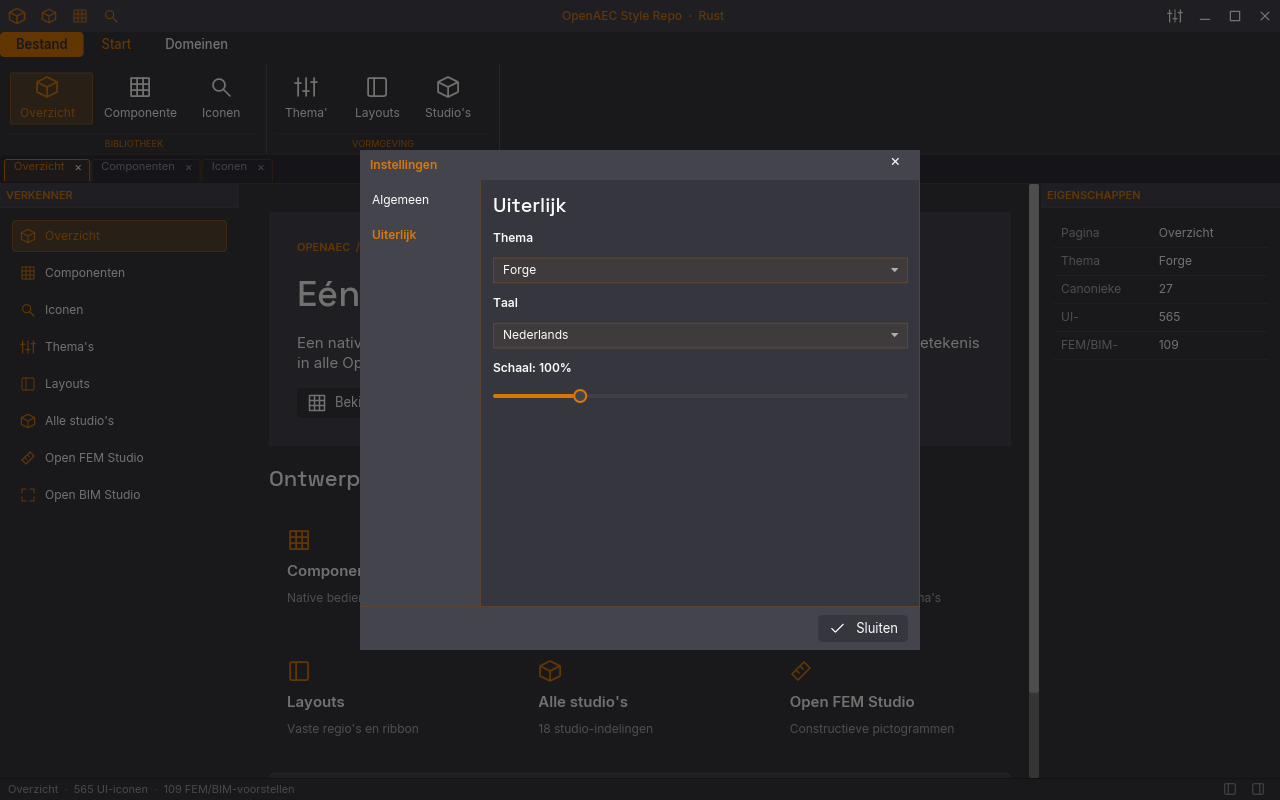
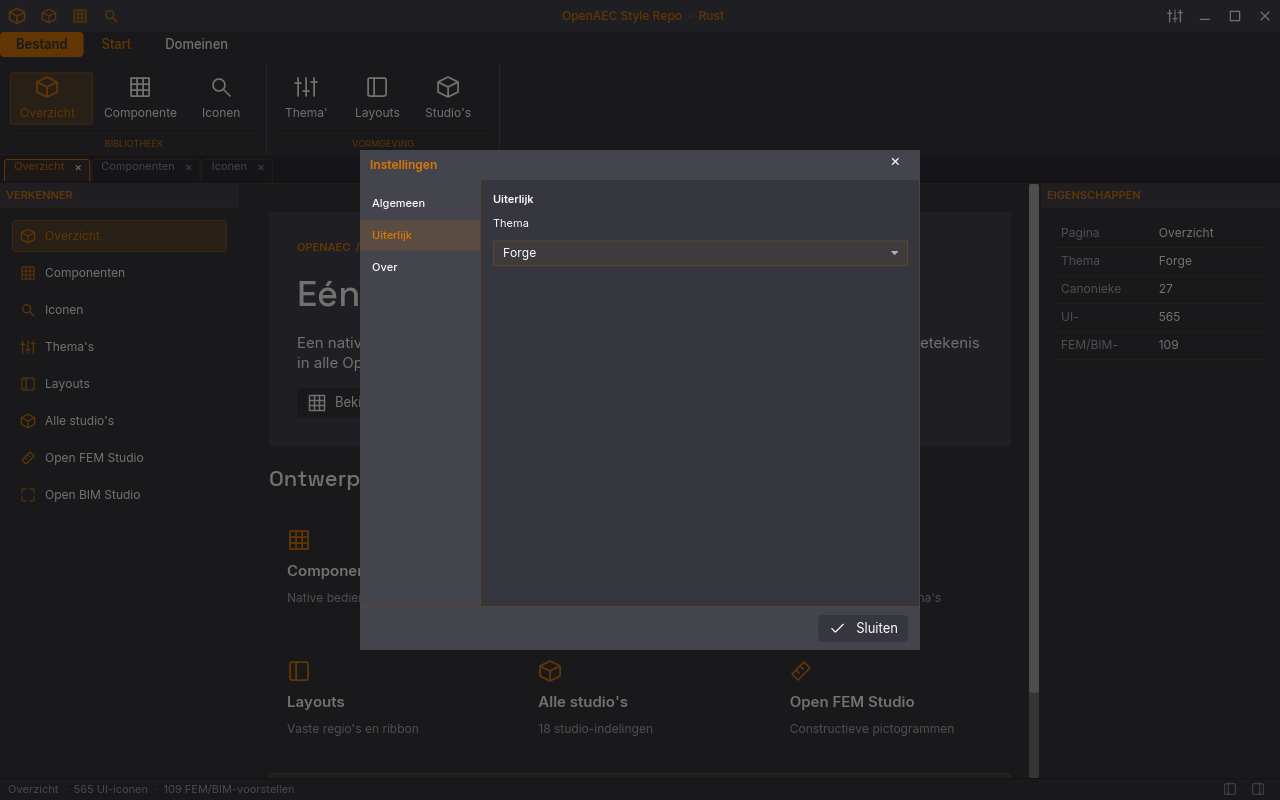
Unify selectable settings navigation in Rust shell

Changed region(s): [[0.375, 0.375, 0.4688, 0.5], [0.375, 0.25, 0.4375, 0.3438], [0.2812, 0.25, 0.3438, 0.3125]]

diff --git a/design/settings-modal-review.html b/design/settings-modal-review.html
@@ -42,7 +42,7 @@
     <figure><h2>Style Repo · Forge</h2><a href="style-repo-settings-forge.png"><img loading="lazy" src="style-repo-settings-forge.png" alt="Style Repo instellingen in Forge"></a><figcaption>Dezelfde crate-geometrie en Forge-tokens.</figcaption></figure>
     <figure><h2>Pointcloud · Forge</h2><a href="pointcloud-settings-forge.png"><img loading="lazy" src="pointcloud-settings-forge.png" alt="Pointcloud instellingen in Forge"></a><figcaption>Dezelfde crate-geometrie en Forge-tokens.</figcaption></figure>
   </div>
-  <div class="assessment"><section><h3>Nu gelijk</h3><p>Positie en buitenmaat van de modal, 120 px navigatiestrook, header, footer, grenslijnen, backdropkleur en thematokens zijn één crate-component. Beide apps houden hun werkende taal- en themagedrag.</p></section><section><h3>Nog beoordelen</h3><p>De bron heeft meer instellingscategorieën en een eigen open themadropdown. Style Repo heeft een compacte keuzelijst; Pointcloud toont vijf themarijen en CAD-viewerinstellingen. De binneninhoud is daardoor nog niet pixelidentiek en blijft deels productspecifiek.</p></section></div>
+  <div class="assessment"><section><h3>Nu gelijk</h3><p>Positie en buitenmaat van de modal, 120 px navigatiestrook, rechte 11 px-tabs, header, footer, grenslijnen, backdropkleur en thematokens komen uit de crate. Beide apps hebben selecteerbare Algemeen-, Uiterlijk- en Over-pagina’s en behouden hun eigen instellingsgedrag.</p></section><section><h3>Nog beoordelen</h3><p>De gepinde templatecode bevat drie tabbladen; zijn bewaarde screenshot toont nog zeven oudere categorieën. De bron heeft een eigen open themadropdown. Style Repo heeft een compacte keuzelijst; Pointcloud toont vijf themarijen en CAD-viewerinstellingen. De binneninhoud is daardoor nog niet pixelidentiek.</p></section></div>
   <p style="margin-top:20px;color:#62626b;font-size:12px">Bronregels: <a href="https://github.com/OpenAEC-Foundation/OpenAEC-style-book/blob/dfdcd415b26604081b1699560621d3e9ae7ea6bf/project-templates/Tauri%2BReact/src/components/settings/SettingsDialog.tsx">SettingsDialog.tsx</a>, <a href="https://github.com/OpenAEC-Foundation/OpenAEC-style-book/blob/dfdcd415b26604081b1699560621d3e9ae7ea6bf/project-templates/Tauri%2BReact/src/components/settings/SettingsDialog.css">SettingsDialog.css</a> en <a href="https://github.com/OpenAEC-Foundation/OpenAEC-style-book/blob/dfdcd415b26604081b1699560621d3e9ae7ea6bf/project-templates/Tauri%2BReact/src/components/Modal.css">Modal.css</a>.</p>
 </main>
 </html>

diff --git a/crates/openaec-ui/src/shell.rs b/crates/openaec-ui/src/shell.rs
@@ -159,26 +159,40 @@ pub fn shell<'a, M: Clone + 'a>(state: &'a ShellState, slots: Slots<'a,M>) -> El
     } else {base}
 }
 fn settings<'a,M:Clone+'a>(state:&'a ShellState) -> Element<'a,Message<M>> {
-    let p=&state.preferences; let l=p.language; let t=p.theme.tokens();
-    let form=column![
-        text(l.text("Uiterlijk","Appearance")).font(fonts::HEADING).size(20),
-        text(l.text("Thema","Theme")).font(fonts::STRONG).size(12),
-        pick_list(Theme::ALL,Some(p.theme),|theme|Message::Ui(UiEvent::Theme(theme)))
-            .style(move |_,status|widgets::pick_list_style(p.theme,status))
-            .menu_style(move |_|widgets::pick_list_menu_style(p.theme)).width(Fill),
-        text(l.text("Taal","Language")).font(fonts::STRONG).size(12),
-        pick_list(Language::ALL,Some(p.language),|language|Message::Ui(UiEvent::Language(language)))
-            .style(move |_,status|widgets::pick_list_style(p.theme,status))
-            .menu_style(move |_|widgets::pick_list_menu_style(p.theme)).width(Fill),
-        text(format!("{}: {:.0}%",l.text("Schaal","Scale"),p.scale*100.0)).font(fonts::STRONG).size(12),
-        slider(0.75..=2.0,p.scale,|scale|Message::Ui(UiEvent::Scale(scale)))
-            .step(0.05).style(move |_,status|widgets::slider_style(p.theme,status)),
-    ].spacing(12);
-    let sidebar=container(column![text(l.text("Algemeen","General")).size(12),text(l.text("Uiterlijk","Appearance")).font(fonts::STRONG).size(12).color(t.accent)].spacing(20))
-        .padding([4,12]);
+    let p=&state.preferences; let l=p.language;
+    let heading = |label| text(label).font(fonts::STRONG).size(11);
+    let form: Element<'a, Message<M>> = match state.settings_page {
+        SettingsPage::General => column![
+            heading(l.text("Algemeen","General")),
+            text(l.text("Taal","Language")).size(11),
+            pick_list(Language::ALL,Some(p.language),|language|Message::Ui(UiEvent::Language(language)))
+                .style(move |_,status|widgets::pick_list_style(p.theme,status))
+                .menu_style(move |_|widgets::pick_list_menu_style(p.theme)).width(Fill),
+            text(format!("{}: {:.0}%",l.text("Schaal","Scale"),p.scale*100.0)).size(11),
+            slider(0.75..=2.0,p.scale,|scale|Message::Ui(UiEvent::Scale(scale)))
+                .step(0.05).style(move |_,status|widgets::slider_style(p.theme,status)),
+        ].spacing(10).into(),
+        SettingsPage::Appearance => column![
+            heading(l.text("Uiterlijk","Appearance")),
+            text(l.text("Thema","Theme")).size(11),
+            pick_list(Theme::ALL,Some(p.theme),|theme|Message::Ui(UiEvent::Theme(theme)))
+                .style(move |_,status|widgets::pick_list_style(p.theme,status))
+                .menu_style(move |_|widgets::pick_list_menu_style(p.theme)).width(Fill),
+        ].spacing(10).into(),
+        SettingsPage::About => column![
+            heading(l.text("Over","About")),
+            text("OpenAEC UI").font(fonts::STRONG).size(12),
+            text(l.text("Gedeelde native Rust-interface voor OpenAEC-tools.","Shared native Rust interface for OpenAEC tools.")).size(11),
+        ].spacing(10).into(),
+    };
+    let sidebar=column![
+        widgets::settings_tab(l.text("Algemeen","General"),state.settings_page==SettingsPage::General,Message::Ui(UiEvent::SettingsPage(SettingsPage::General)),p.theme),
+        widgets::settings_tab(l.text("Uiterlijk","Appearance"),state.settings_page==SettingsPage::Appearance,Message::Ui(UiEvent::SettingsPage(SettingsPage::Appearance)),p.theme),
+        widgets::settings_tab(l.text("Over","About"),state.settings_page==SettingsPage::About,Message::Ui(UiEvent::SettingsPage(SettingsPage::About)),p.theme),
+    ].spacing(2);
     let footer=row![Space::with_width(Fill),widgets::action(l.text("Sluiten","Close"),Icon::Check,Some(Message::Ui(UiEvent::Settings(false))),p.theme)];
     widgets::settings_modal(
-        l.text("Instellingen","Settings"), sidebar.into(), form.into(), footer.into(),
+        l.text("Instellingen","Settings"), sidebar.into(), form, footer.into(),
         Message::Ui(UiEvent::Settings(false)), p.theme,
     )
 }

diff --git a/crates/openaec-ui/src/model.rs b/crates/openaec-ui/src/model.rs
@@ -134,10 +134,12 @@ pub enum DocumentEvent { Activate(String), CloseRequested(String) }
 pub enum Message<M> { Ui(UiEvent), Command(M), Document(DocumentEvent) }
 #[derive(Debug, Clone)]
 pub enum UiEvent {
-    Tab(String), Backstage(bool), Settings(bool), Theme(Theme), Language(Language),
+    Tab(String), Backstage(bool), Settings(bool), SettingsPage(SettingsPage), Theme(Theme), Language(Language),
     Scale(f64), ToggleLeft, ToggleRight, Resize(pane_grid::ResizeEvent),
     DragWindow, Minimize, Maximize, CloseWindow,
 }
+#[derive(Debug, Clone, Copy, Default, PartialEq, Eq)]
+pub enum SettingsPage { #[default] General, Appearance, About }
 #[derive(Debug, Clone, Copy, PartialEq, Eq)]
 pub enum Region { Explorer, Workspace, Properties }
 
@@ -193,6 +195,7 @@ pub struct ShellState {
     pub active_tab: String,
     pub backstage: bool,
     pub settings: bool,
+    pub settings_page: SettingsPage,
     pub(crate) panes: pane_grid::State<Region>,
     left_split: Option<pane_grid::Split>,
     right_split: Option<pane_grid::Split>,
@@ -202,7 +205,7 @@ impl ShellState {
     pub fn new(mut preferences: Preferences) -> Self {
         preferences.normalize();
         let (panes, _) = pane_grid::State::new(Region::Workspace);
-        let mut state = Self { preferences, active_tab: String::new(), backstage:false, settings:false, panes, left_split:None, right_split:None };
+        let mut state = Self { preferences, active_tab: String::new(), backstage:false, settings:false, settings_page:SettingsPage::General, panes, left_split:None, right_split:None };
         state.rebuild(); state
     }
     fn rebuild(&mut self) {
@@ -224,6 +227,7 @@ impl ShellState {
             UiEvent::Tab(id) => { self.active_tab = id.clone(); self.backstage = false; }
             UiEvent::Backstage(open) => { self.backstage = *open; self.settings = false; }
             UiEvent::Settings(open) => { self.settings = *open; self.backstage = false; }
+            UiEvent::SettingsPage(page) => self.settings_page = *page,
             UiEvent::Theme(theme) => self.preferences.theme = *theme,
             UiEvent::Language(language) => self.preferences.language = *language,
             UiEvent::Scale(scale) => { self.preferences.scale = *scale; self.preferences.normalize(); }

diff --git a/crates/openaec-ui/src/widgets.rs b/crates/openaec-ui/src/widgets.rs
@@ -1064,6 +1064,30 @@ pub fn settings_modal<'a, M: Clone + 'a>(
         container::Style::default().background(t.dialog_overlay)
     })).into()
 }
+/// Vertical settings navigation from the pinned Style Book template.
+pub fn settings_tab<'a, M: Clone + 'a>(
+    label: impl Into<String>,
+    active: bool,
+    on_press: M,
+    theme: Theme,
+) -> Element<'a, M> {
+    let t = theme.tokens();
+    button(text(label.into()).size(11).font(fonts::MEDIUM))
+        .on_press(on_press)
+        .width(Fill)
+        .padding([8, 12])
+        .style(move |_, status| {
+            let hovered = matches!(status, button::Status::Hovered);
+            button::Style {
+                background: if active { Some(t.dialog_tab_active_bg.into()) }
+                    else if hovered { Some(t.dialog_tab_hover.into()) } else { None },
+                text_color: if active { t.dialog_tab_active_text }
+                    else if hovered { t.dialog_tab_hover_text } else { t.dialog_tab_text },
+                ..button::Style::default()
+            }
+        })
+        .into()
+}
 pub fn icon_button<'a, M: Clone + 'a>(
     label: &'a str,
     icon: Icon,

diff --git a/src/bin/style_repo/render_tests.rs b/src/bin/style_repo/render_tests.rs
@@ -48,6 +48,7 @@ fn render_sized(
     preferences.theme = theme;
     let mut state = ShellState::new(preferences);
     state.settings = show_settings;
+    if show_settings { state.settings_page = openaec_ui::SettingsPage::Appearance; }
     if let Some(tab) = active_tab {
         state.active_tab = tab.into();
     }

diff --git a/design/assessment.md b/design/assessment.md
@@ -147,7 +147,7 @@ compacte knopstapels en een eigen taak/Gantt-werkgebied gebruikt.
 | Semantiek van iconen | De 27 huidige canonieke bedieningstekens zijn een begin; 565 bronbestanden zijn onderzoeksdata. | Groepeer synoniemen, beoordeel tegen light/dark en teken de definitieve domeinsets. |
 | FEM en BIM | 52 FEM- en 57 BIM-betekenissen hebben elk een uniek SVG-concept; de atlas toont ze op 16, 24 en 32 px in lichte en donkere omgeving. | Complexe vormen op 16 px verfijnen en de 24 mogelijke bronmatches inhoudelijk vergelijken. |
 | Applicatieschermen | Voor 16 studio's zijn negen gedeelde schermtoestanden in HTML en de native Rust-atlas selecteerbaar, waaronder import/export, voortgang, onopgeslagen werk en fouten. Speech toont negen native zijbalkschermen en acht broncaptures; Field tien native topnavigatieschermen en zes broncaptures. De native ribbon volgt nu per studio de voorgestelde tabs. FEM en BIM tonen hun eigen concepticonen als themagekleurde app-eigen SVG's; de algemene `Icon::ALL`-set blijft 27 betekenissen groot en `DomainIcon` bevat vier afzonderlijke CAD/Pointcloud-betekenissen. | Per tool de echte inhoud, dialooginteractie en concrete foutafhandeling aan de broncode koppelen; concepttabs en -iconen vakinhoudelijk beoordelen. |
-| Werkelijke migratie | Pointcloud gebruikt de gedeelde crate voor de complete buitenste venstercompositie, beide paneelkoppen, titelbalkiconen, tien beoordeelde algemene tooliconen, twee domeiniconen en het Extensions-icoon, fonts, 77 Tauri-kleurvelden plus de stevige randkleur uit de merktokens per thema, ribbon- en formulierknoppen, invoervelden, keuzelijsten, checkboxen, sliders, voortgangsbalken, scrollbalken, tooltips en vijf vensterbandmaten. Ook de 27 px hoge dialoogknop met 75 px minimumbreedte en identieke tekstuitlijning wordt nu door de crate gebouwd en in beide apps gebruikt. De portable kopie is op 13 Rust-bestanden, 41 assets en dependencies gelijk gecontroleerd. De documenttabs staan vensterbreed; Light- en Forge-renders zijn met lege en geopende scan beoordeeld. De titelbalkacties van beide apps gebruiken nu ook dezelfde 30 × 26 px Rust-widget voor geometrie, hover en tooltip. De [instellingenmodal-review](settings-modal-review.html) vergelijkt nu de gepinde Tauri-capture met native Light- en Forge-renders van beide apps. Een gedeelde crate-component legt buitenmaat 560 × 500 px, zijbalk 120 px, header/footer en een niet-sluitende backdrop vast; inhoud en opdrachten blijven app-eigen. De Pointcloud-Light- en Forge-renders bleven na die migratie bytegelijk; de Style Repo-reviewbeelden zijn opnieuw gerenderd. De instellingenrenders tonen de gesloten keuzelijsten in Light en Forge. | Domeinpanelen en dialogen op gedeelde widgets aansluiten zonder 3D-functionaliteit te verliezen; echte vensterscreenshots op meerdere platformen vergelijken. |
+| Werkelijke migratie | Pointcloud gebruikt de gedeelde crate voor de complete buitenste venstercompositie, beide paneelkoppen, titelbalkiconen, tien beoordeelde algemene tooliconen, twee domeiniconen en het Extensions-icoon, fonts, 77 Tauri-kleurvelden plus de stevige randkleur uit de merktokens per thema, ribbon- en formulierknoppen, invoervelden, keuzelijsten, checkboxen, sliders, voortgangsbalken, scrollbalken, tooltips en vijf vensterbandmaten. Ook de 27 px hoge dialoogknop met 75 px minimumbreedte en identieke tekstuitlijning wordt nu door de crate gebouwd en in beide apps gebruikt. De portable kopie is op 13 Rust-bestanden, 41 assets en dependencies gelijk gecontroleerd. De documenttabs staan vensterbreed; Light- en Forge-renders zijn met lege en geopende scan beoordeeld. De titelbalkacties van beide apps gebruiken nu ook dezelfde 30 × 26 px Rust-widget voor geometrie, hover en tooltip. De [instellingenmodal-review](settings-modal-review.html) vergelijkt nu de gepinde Tauri-capture met native Light- en Forge-renders van beide apps. Een gedeelde crate-component legt buitenmaat 560 × 500 px, zijbalk 120 px, header/footer en een niet-sluitende backdrop vast; inhoud en opdrachten blijven app-eigen. Daarna zijn de drie tabrijen uit de gepinde broncode in beide Rust-apps aangesloten op `widgets::settings_tab`: 11 px tekst, rechte hoeken en gedeelde hover- en selectietokens. Style Repo heeft nu selecteerbare Algemeen-, Uiterlijk- en Over-pagina’s. Beide Light- en Forge-renders zijn opnieuw gegenereerd. De gepinde templatecode bevat drie tabs, terwijl de bewaarde screenshot zeven historische categorieën toont; die capture bewijst dus niet de huidige tablijst. | Domeinpanelen en dialogen op gedeelde widgets aansluiten zonder 3D-functionaliteit te verliezen; echte vensterscreenshots op meerdere platformen vergelijken. |
 
 De actieve en hoverstaat van de 28 px ribbon-tab komen nu uit één
 `openaec-ui::widgets::ribbon_tab_style` in zowel de Rust-showcase als

diff --git a/README.md b/README.md
@@ -39,7 +39,7 @@ De Frame-ribbon toont [Sjabloon](design/style-repo-frame-ribbon-light.png), [IFC
 
 De native iconenpagina toont de 26 canonieke Rust-iconen en vier afzonderlijke, beoordeelde CAD/Pointcloud-domeinbetekenissen met eigen 16 px-vormen, los van de 565 onderzoeksbronnen: [Light](design/style-repo-icons-light.png) en [Forge](design/style-repo-icons-forge.png).
 De [componentenpagina in Light](design/style-repo-components-light.png) en [Forge](design/style-repo-components-forge.png) toont de gedeelde primaire, secundaire en uitgeschakelde knoppen, plus een werkende checkbox en slider. Pointcloud tekent ook zijn scrollbalken, tooltips en voortgangsbalken met de stijlfuncties uit dezelfde crate.
-De [instellingen in Light](design/style-repo-settings-light.png) en [Forge](design/style-repo-settings-forge.png) tonen de gedeelde keuzelijst- en invoerstijl; Pointcloud gebruikt dezelfde Rust-functies voor velden en het open keuzemenu.
+De [instellingenreview](design/settings-modal-review.html) vergelijkt de gepinde Tauri-bron met Style Repo en Pointcloud in Light en Forge. De modal en de drie selecteerbare tabbladen komen uit dezelfde Rust-crate; de inhoud, themawaarde en opslag blijven van de betreffende app.
 
 Een andere Rust-tool kan de shell via de `Application`-trait gebruiken. [`examples/studio.rs`](examples/studio.rs) is een klein integratievoorbeeld (`cargo run --example studio`).
 Voor bestaande native applicaties met een eigen eventloop biedt [`crates/openaec-ui/src/frame.rs`](crates/openaec-ui/src/frame.rs) dezelfde buitenste bandindeling via `FrameSlots`; Pointcloud Studio gebruikt die adapter voor het volledige venster en behoudt zijn eigen 3D-canvas en commando's.

diff --git a/crates/openaec-ui/README.md b/crates/openaec-ui/README.md
@@ -7,6 +7,7 @@ Native Rust shell, theme tokens, typography, semantic icons and controls shared 
 `widgets::title_action` owns the 30 × 26 px quick-access control, hover color and tooltip for the title strip. The Style Repo and Pointcloud supply their own command icons, labels and messages through this same Rust widget.
 
 `widgets::settings_modal` owns the source Style Book's 560 × 500 px settings chrome, 120 px sidebar, overlay, header and footer. Each app supplies its own tabs and settings fields. The backdrop does not dismiss the dialog, matching the pinned Tauri template.
+`widgets::settings_tab` gives those tabs the same square 11 px navigation style. The crate shell provides selectable General, Appearance and About pages; other applications can supply their own page content and messages.
 
 `frame::document_bar` owns the 30 px document band from the pinned Tauri Style Book: the one-pixel top and bottom rules, theme background and 4 px horizontal inset. Applications keep their own tab identity and navigation behavior.
 
